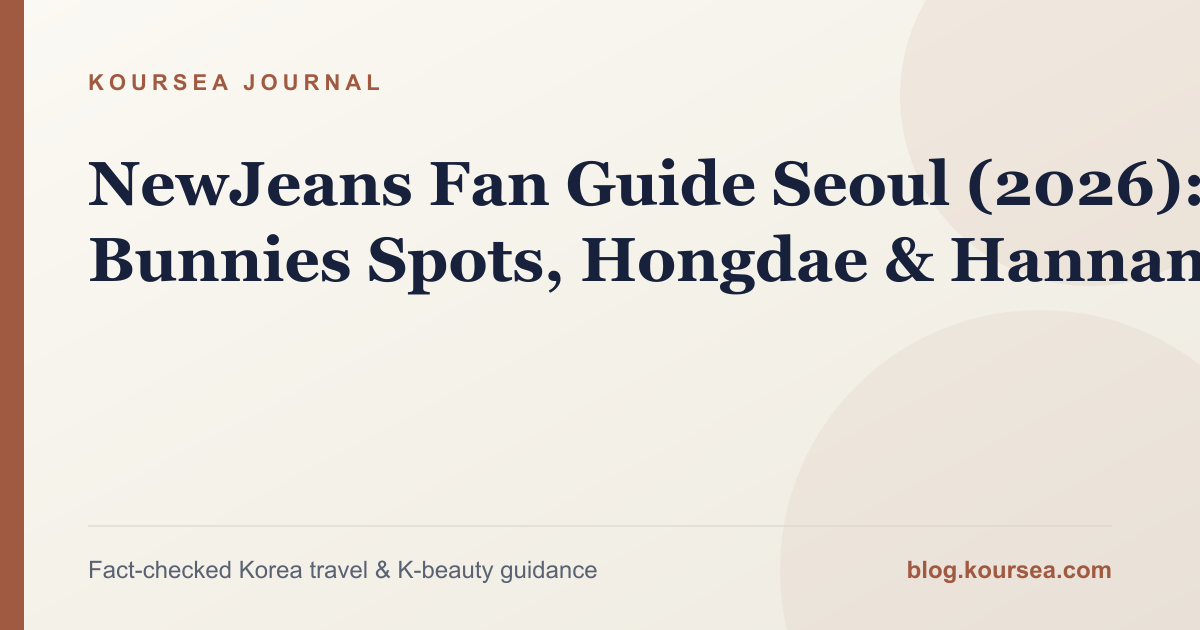
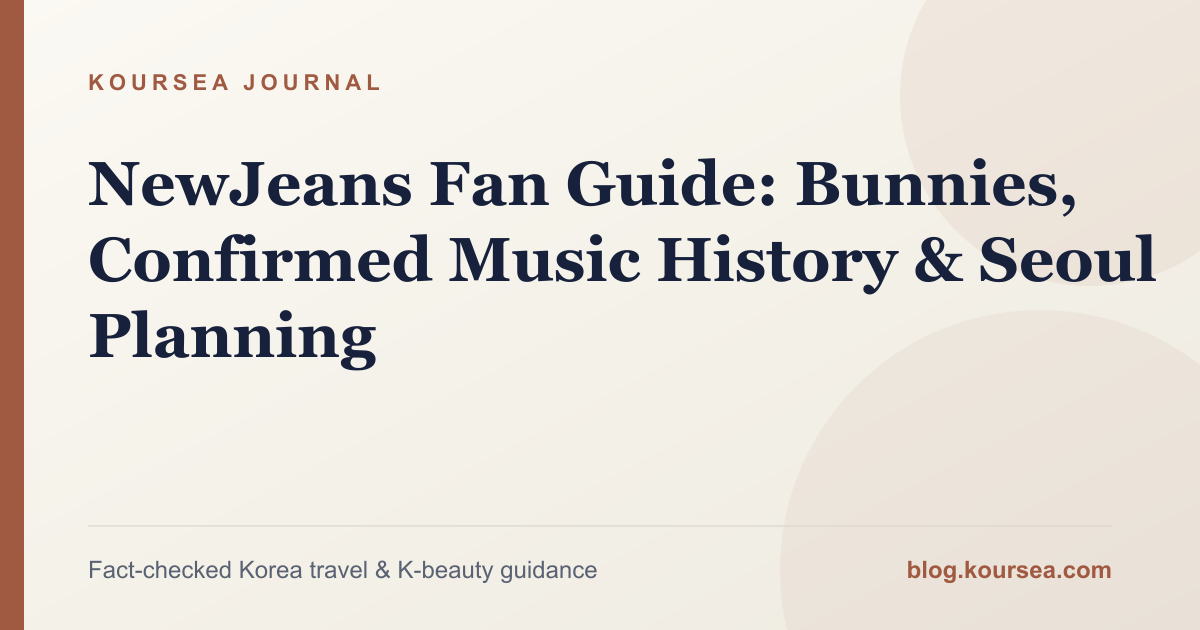
feat(kpop): publish artist profile batch five

Changed region(s): [[0.0617, 0.3619, 1.0, 0.4825], [0.6167, 0.2413, 1.0, 0.3317], [0.0617, 0.4825, 0.3083, 0.6032]]

diff --git a/src/content/posts/newjeans-fan-guide-seoul-spots.md b/src/content/posts/newjeans-fan-guide-seoul-spots.md
@@ -1,8 +1,9 @@
 ---
-title: "NewJeans Fan Guide Seoul (2026): Bunnies Spots, Hongdae & Hannam"
-description: "Planning a NewJeans-inspired Seoul trip? A 2026 guide to Bunnies fan culture, Hongdae/Hannam neighborhoods, and ticketing prep for foreign fans."
+title: "NewJeans Fan Guide: Bunnies, Confirmed Music History & Seoul Planning"
+description: "A carefully scoped NewJeans fan guide covering confirmed 2022–2024 releases, Bunnies, public Seoul planning and respectful fan travel."
 pubDate: 2026-09-02
 updatedDate: 2026-09-02
+category: "K-Pop & Concerts"
 tags:
   - newjeans
   - bunnies
@@ -17,17 +18,23 @@ canonicalUrl: "https://blog.koursea.com/posts/newjeans-fan-guide-seoul-spots/"
 author: "Koursea Editorial"
 ---
 
-> **A note before you plan around this guide:** NewJeans' agency and lineup situation has been genuinely unsettled in Korean reporting through 2025 and into 2026, with different outlets describing different stages of an ongoing contract dispute. Rather than guess at where things stand by the time you're reading this, this guide sticks to facts confirmed at debut and general Seoul geography associated with the group's fandom culture — verify current agency status and any tour/comeback news independently before finalizing travel plans around a specific event.
+> **최종 업데이트: 2026-09-02 기준. 최신 소속/멤버 현황은 별도로 확인이 필요합니다.**
+
+This guide deliberately covers confirmed activity from 2022 through 2024 only. It does not describe later agency, contract or member-status developments, and it does not present an unconfirmed future concert schedule.
 
 ## Profile & Key Takeaways
 
 - **Debut:** July 22, 2022
-- **Agency at debut:** ADOR, a HYBE-affiliated label; [HYBE Yongsan](https://www.koursea.com/place/hybe-headquarters-yongsan/) is a working-office exterior stop rather than an artist attraction
+- **Agency at debut:** ADOR, a HYBE-affiliated label
 - **Official fandom name:** Bunnies
 - **Group format:** Girl group, 5 members at debut
 - **Visitor footprint:** There's no dedicated public "NewJeans building" — ADOR is a small label without its own visitor-facing HQ, so this guide focuses on the Seoul neighborhoods most associated with the group's aesthetic and fan culture rather than a single pilgrimage address.
 
-NewJeans built their identity around a specific, very Seoul-coded aesthetic — Y2K fashion, low-key streetwear, film-photo visuals — and that shows up in where the fandom naturally gathers, even without an agency headquarters to visit. Here is how to plan around that honestly.
+## Confirmed 2022–2024 Activity
+
+NewJeans debuted in 2022 with an EP led by “Attention” and “Hype Boy”; both songs became defining early releases, and “Attention” earned the group its first music-show win. The following single album paired “Ditto” with “OMG”. In 2023, the *Get Up* EP reached No. 1 on the Billboard 200. Confirmed 2024 activity includes “How Sweet”, the Japanese debut single “Supernatural”, and the sold-out Bunnies Camp fan meeting at Tokyo Dome.
+
+Those releases are the boundary of this page's activity timeline. Travelers should not infer a current lineup, agency position or future tour from this historical summary.
 
 ## Neighborhoods, Not a Single Address
 
@@ -44,9 +51,9 @@ Individual MV filming locations and brand pop-up stores are time-limited and cha
 
 Avoid chasing unofficial "member sighting" locations or private residence tips — that's the kind of privacy-invasive content Koursea doesn't publish, and it's rarely accurate or current in practice. Stick to public retail, cafe, and street-culture spaces, and treat any specific "NewJeans filmed here" claim you find online with some skepticism unless it comes from an official source.
 
-## Tickets and Phone Verification — For Whenever Touring Resumes
+## General Ticketing Preparation
 
-Given the group's unsettled 2025–2026 status, we're not going to claim there's an active tour to book tickets for right now — check official channels for current news before assuming otherwise. But it's worth having the practical groundwork done regardless, since the same mechanics apply the moment any K-pop show goes on sale in Korea:
+This page does not claim that a NewJeans concert is scheduled. If an official future event is announced, start from the organizer's current notice rather than an old fan guide:
 
 - Our [Foreigner's Guide to K-Pop Concert Ticketing in Seoul (2026)](/posts/kpop-concert-ticketing-seoul-2026/) covers how NOL World, Melon Ticket, and Yes24 actually work, including the mandatory Korean-number verification step that catches most foreign fans off guard.
 - Solve that step ahead of time with our [Korean eSIM & SIM Card Setup Guide (2026)](/posts/guide-korea-esim-sim-card-setup-2026/) — it explains which eSIM plans can actually receive a Korean SMS code, since not every data-only plan supports that.
@@ -54,17 +61,17 @@ Given the group's unsettled 2025–2026 status, we're not going to claim there's
 ## Quick Answers
 
 - **Is there an official NewJeans or ADOR building to visit?** No confirmed public visitor site — ADOR doesn't operate the kind of visitor-facing destination associated with places such as [HYBE Yongsan](https://www.koursea.com/place/hybe-headquarters-yongsan/) or [SM Entertainment and KWANGYA@SEOUL](https://www.koursea.com/place/sm-kwangya-seoul-forest/).
-- **What's NewJeans' current agency status?** This has been genuinely disputed in Korean reporting through 2025–2026 — verify current status through official channels rather than relying on any single article, including this one.
+- **Does this guide confirm the group's current agency or member status?** No. It is limited to confirmed 2022–2024 activity and the debut-era agency description.
 
 ---
 
 ## Social & Community Distribution Snippets
 
 ### Threads & X (Twitter) Hook
-No, there's no "NewJeans building" to visit in Seoul — ADOR doesn't run a public HQ. What Bunnies actually build a trip around is Hongdae + Hannam's fashion/street-culture scene. Honest 2026 guide (agency status included) here:
+No, there is no public “NewJeans building” to visit in Seoul. This carefully scoped guide covers confirmed 2022–2024 releases, Bunnies culture, and public neighborhood planning:
 https://blog.koursea.com/posts/newjeans-fan-guide-seoul-spots/
 
 ### Reddit Community Reply Template
-Being upfront: NewJeans' agency/lineup situation has been genuinely unsettled in Korean reporting, so I'm not going to claim a specific current status here — check official channels for the latest before planning around it. What I can say confidently: there's no separate NewJeans/ADOR building open to visitors, so the more useful Seoul trip is centered on Hongdae and Hannam-dong, the neighborhoods most associated with the group's style and fandom culture, rather than one fixed address. If touring resumes, Korean ticketing platforms all require a one-time Korean phone verification — worth sorting a Korean-capable eSIM ahead of time regardless. Full guide here: https://blog.koursea.com/posts/newjeans-fan-guide-seoul-spots/
+This guide intentionally stops at confirmed 2022–2024 activity and does not speculate about later agency, member or concert developments. There is no separate public visitor building, so its practical Seoul section focuses on public neighborhoods rather than private workplaces. Full guide: https://blog.koursea.com/posts/newjeans-fan-guide-seoul-spots/
 
 ---

diff --git a/src/content/posts/boynextdoor-fan-guide.md b/src/content/posts/boynextdoor-fan-guide.md
@@ -1,0 +1,47 @@
+---
+title: "BOYNEXTDOOR Fan Guide: ONEDOOR Activity & Seoul Concert Prep"
+description: "A practical BOYNEXTDOOR guide for ONEDOOR covering confirmed activity, the absence of a public KOZ visitor facility, official merchandise checks and Seoul ticketing prep."
+pubDate: 2026-09-08
+updatedDate: 2026-09-08
+category: "K-Pop & Concerts"
+tags: ["boynextdoor", "onedoor", "koz entertainment", "19.99", "kpop concert tickets"]
+canonicalUrl: "https://blog.koursea.com/posts/boynextdoor-fan-guide/"
+author: "Koursea Editorial"
+---
+
+# BOYNEXTDOOR Fan Guide: ONEDOOR Activity & Seoul Concert Prep
+
+BOYNEXTDOOR is managed by KOZ Entertainment, a HYBE-affiliated label, and the official fandom name is **ONEDOOR**. The most important travel fact is also the simplest: there is no verified public KOZ headquarters shop or dedicated BOYNEXTDOOR visitor facility in Seoul.
+
+## Key Takeaways
+
+- Do not build an itinerary around entering KOZ offices or HYBE headquarters.
+- HYBE's Yongsan building is a workplace with no general fan access.
+- The mini album *19.99* and the *ONEDOORful Day* fan-meeting name are useful confirmed activity references, not current event listings.
+- Buy through official online channels or a clearly announced temporary retailer event.
+- Use the [Foreigner's Guide to K-Pop Concert Ticketing in Seoul](/posts/kpop-concert-ticketing-seoul-2026/) for future official shows.
+
+## Why This Guide Has No Headquarters Route
+
+An agency relationship does not turn an office into a tourism venue. KOZ does not operate a separately verified public shop or exhibition for walk-in visitors, and HYBE headquarters does not provide general interior access. Koursea therefore does not invent a place card or direct ONEDOOR to private entrances.
+
+If you want a fan-focused stop, wait for a dated official pop-up, album benefit, fan meeting or concert announcement. Confirm its venue and operating period through KOZ, BOYNEXTDOOR, Weverse, the venue or the named ticket seller. Old event pages often remain searchable after closing.
+
+## Confirmed Activity Context
+
+The *19.99* mini album and *ONEDOORful Day* fan meeting are established parts of BOYNEXTDOOR's activity history. They can help travelers understand merchandise names and older fan content, but they should not be presented as a current Seoul schedule without a new official notice.
+
+For merchandise, compare the product title, edition, official seller and benefit period. Temporary lucky draws and preorder gifts are tied to particular retailers and dates; a photo of an old benefit is not evidence that it remains available.
+
+## Ticketing Preparation for ONEDOOR
+
+When a future Seoul event is officially announced, begin with the organizer's notice and follow its exact seller link. Check whether membership presale needs a separate application, whether names must match a passport, and whether the platform accepts your card. Complete every account step before sale time.
+
+Our [K-Pop concert ticketing guide](/posts/kpop-concert-ticketing-seoul-2026/) covers NOL Ticket, Melon Ticket, Korean phone verification, foreign-card failures and pickup rules. Save the final venue notice and transport plan offline for concert day.
+
+## Quick Answers
+
+- **Can fans enter KOZ Entertainment?** No public visitor facility is verified, so do not plan on office access.
+- **Is HYBE headquarters a BOYNEXTDOOR attraction?** No. It is a working office.
+- **Where should ONEDOOR check events?** Use current KOZ, BOYNEXTDOOR, Weverse, venue and official ticket-seller notices.
+

diff --git a/src/content/posts/nct127-fan-guide-sm-seongsu.md b/src/content/posts/nct127-fan-guide-sm-seongsu.md
@@ -1,0 +1,47 @@
+---
+title: "NCT 127 Fan Guide to Seoul: NCTzen Stops & KWANGYA@SEOUL"
+description: "Plan an NCT 127 fan visit to Seoul with the current KWANGYA@SEOUL location, closed SMTOWN Coex warning, official merchandise checks and concert ticketing prep."
+pubDate: 2026-09-08
+updatedDate: 2026-09-08
+category: "K-Pop & Concerts"
+tags: ["nct 127", "nctzen", "kwangya seoul", "sm entertainment", "kpop concert tickets"]
+canonicalUrl: "https://blog.koursea.com/posts/nct127-fan-guide-sm-seongsu/"
+author: "Koursea Editorial"
+---
+
+# NCT 127 Fan Guide to Seoul: NCTzen Stops & KWANGYA@SEOUL
+
+NCT 127 is an SM Entertainment group whose official fandom name is **NCTzen**. For a fan visiting Seoul, the useful official public stop is [KWANGYA@SEOUL](https://www.koursea.com/place/sm-kwangya-seoul-forest/) in Seongsu—not an old Coex itinerary and not a private office entrance.
+
+## Key Takeaways
+
+- KWANGYA@SEOUL is at **B1, D Tower, Acro Seoul Forest, 83-21 Wangsimni-ro, Seongdong-gu**.
+- SMTOWN Coex Artium closed completely in May–June 2020 and is no longer an SM visitor destination.
+- Treat SM offices as workplaces and use only the public retail space announced for visitors.
+- NCT 127's sixth full album *WALK* belongs to the group's established activity history; check current SM notices for any new event.
+- Use the [Foreigner's Guide to K-Pop Concert Ticketing in Seoul](/posts/kpop-concert-ticketing-seoul-2026/) before a ticket sale.
+
+## Visit KWANGYA@SEOUL in Seongsu
+
+Enter Acro Seoul Forest's D Tower and follow the building's current signs to basement level 1. Store hours, purchase benefits, stock and event entry rules can change, so check the latest KWANGYA or SM notice on the day you travel. If a release benefit matters to you, confirm the branch, eligible album version and event period before paying.
+
+Do not use old posts directing NCTzen to SMTOWN Coex Artium. That venue closed in 2020 and the former space is not a current SM attraction. A page, map pin or video that still calls it an operating SMTOWN venue is stale.
+
+## Build a Practical Seongsu Fan Day
+
+Keep the official stop as one part of a public Seongsu itinerary. Seoul Forest offers space to rest, and the surrounding district has cafés, shops and pop-ups. Temporary artist events require their own official notice; their dates should never be inferred from an old social post.
+
+Avoid waiting near private office access points or following vehicles. Public retail and announced events are the appropriate fan-travel route.
+
+## Concert Preparation
+
+Start with the performance organizer's notice. Confirm the seller, NCTzen membership presale steps, account-name format, passport matching, pickup policy and accepted payment methods. Finish account verification before the queue opens and save the venue address and final train route offline.
+
+Our [K-Pop concert ticketing guide](/posts/kpop-concert-ticketing-seoul-2026/) explains NOL Ticket, Melon Ticket, foreign-card failures and identity checks without promising that one platform's old rules apply to every show.
+
+## Quick Answers
+
+- **Can I still visit SMTOWN Coex Artium?** No. It closed in 2020 and should not be used as an NCT 127 destination.
+- **Where is the current official public stop?** KWANGYA@SEOUL at Acro Seoul Forest D Tower B1.
+- **Can I enter SM's offices?** Do not assume office access. Use the designated public store and announced event spaces only.
+

diff --git a/src/content/posts/riize-fan-guide-sm-seongsu.md b/src/content/posts/riize-fan-guide-sm-seongsu.md
@@ -1,0 +1,47 @@
+---
+title: "RIIZE Fan Guide to Seoul: BRIIZE Stops & KWANGYA@SEOUL"
+description: "A practical RIIZE fan guide to KWANGYA@SEOUL in Seongsu, official merchandise checks, public fan etiquette and foreigner concert ticket preparation."
+pubDate: 2026-09-08
+updatedDate: 2026-09-08
+category: "K-Pop & Concerts"
+tags: ["riize", "briize", "kwangya seoul", "sm entertainment", "kpop concert tickets"]
+canonicalUrl: "https://blog.koursea.com/posts/riize-fan-guide-sm-seongsu/"
+author: "Koursea Editorial"
+---
+
+# RIIZE Fan Guide to Seoul: BRIIZE Stops & KWANGYA@SEOUL
+
+RIIZE is an SM Entertainment group, and its official fandom name is **BRIIZE**. The group does not need a duplicate place listing: its practical official Seoul stop is the same [KWANGYA@SEOUL](https://www.koursea.com/place/sm-kwangya-seoul-forest/) used by other SM artists.
+
+## Key Takeaways
+
+- Visit KWANGYA@SEOUL at **Acro Seoul Forest D Tower B1, 83-21 Wangsimni-ro, Seongdong-gu**.
+- Do not travel to the former SMTOWN Coex Artium; it closed in 2020.
+- *RIIZING*, the fan-con tour era and the KSPO DOME finale are useful established milestones, not proof of a current event.
+- Confirm pop-ups and purchase benefits through the newest official notice.
+- Prepare with the [Foreigner's Guide to K-Pop Concert Ticketing in Seoul](/posts/kpop-concert-ticketing-seoul-2026/).
+
+## The Official Seongsu Stop
+
+KWANGYA@SEOUL is a public retail destination inside Acro Seoul Forest, while SM work areas are not fan attractions. Follow the mall's current signs to D Tower basement level 1. Inventory and event rules change quickly, so verify opening hours, eligible products and reservation requirements before making a special trip.
+
+RIIZE and NCT 127 share this location because it is an SM retail hub. Creating a second map entity would imply two different venues and make directions less reliable, so Koursea links both guides to one verified place page.
+
+## RIIZE Activity Context
+
+The *RIIZING* mini-album era, fan-con tour and KSPO DOME finale help explain why BRIIZE may encounter older event guides and merchandise posts. Treat those as historical context. A past event page does not confirm that a benefit, exhibition or concert is operating now.
+
+For a current visit, use only a dated SM, RIIZE, venue or ticket-seller announcement. Check whether entry is walk-in, reserved or lottery-based and whether identification must match the booking account.
+
+## Concert-Day Preparation
+
+Before a future official event, confirm the exact seller and presale process. Keep membership and ticket-account names consistent with your passport when the notice requires identity verification. Test your payment method, save a backup card, and screenshot the venue notice and return route.
+
+Read our [K-Pop concert ticketing guide](/posts/kpop-concert-ticketing-seoul-2026/) for the foreigner-facing details most likely to cause trouble: account verification, waiting rooms, payment declines and ticket pickup.
+
+## Quick Answers
+
+- **Is there a separate RIIZE shop in Seoul?** This guide uses the shared official KWANGYA@SEOUL location; it does not create a duplicate venue.
+- **Is SMTOWN Coex Artium still open?** No. Do not use it as a current destination.
+- **Are old RIIZING event benefits still available?** Never assume so; confirm the newest dated notice.
+

diff --git a/src/content/posts/enhypen-fan-guide-seoul-spots.md b/src/content/posts/enhypen-fan-guide-seoul-spots.md
@@ -3,6 +3,7 @@ title: "ENHYPEN Fan Guide to Seoul: ENGENE Spots, HYBE Yongsan & Pop-Up Tips"
 description: "Plan an ENHYPEN fan trip with respectful HYBE photo stops, official Seoul pop-up checks, merch shopping, ticketing, and transit advice."
 pubDate: 2026-09-03
 updatedDate: 2026-09-03
+category: "K-Pop & Concerts"
 tags: ["K-Pop", "ENHYPEN", "ENGENE", "Seoul", "Concert Tickets"]
 canonicalUrl: "https://blog.koursea.com/posts/enhypen-fan-guide-seoul-spots/"
 author: "Koursea Team"
@@ -10,11 +11,12 @@ author: "Koursea Team"
 
 # ENHYPEN Fan Guide to Seoul: ENGENE Spots, HYBE Yongsan & Pop-Up Tips
 
-ENHYPEN debuted on November 30, 2020, under BELIFT LAB, and the official fandom name is ENGENE. The strongest Seoul itinerary is flexible: combine a brief public photo stop with verified pop-ups, authorized retailers, and solid concert preparation.
+ENHYPEN debuted on November 30, 2020, under BELIFT LAB, a HYBE-affiliated label, and the official fandom name is ENGENE. The strongest Seoul itinerary is flexible: combine a brief public photo stop with verified pop-ups, authorized retailers, and solid concert preparation.
 
 ## Key takeaways
 
 - [HYBE Yongsan](https://www.koursea.com/place/hybe-headquarters-yongsan/) is a private workplace with no guaranteed public interior access.
+- HYBE INSIGHT ended permanent operations on January 15, 2023. There is no permanent ENHYPEN exhibition venue to visit inside the headquarters.
 - Check official ENHYPEN or BELIFT notices for event dates, reservations, identification, and final entry.
 - Prepare ticket identity details, payment backups, and mobile verification before sales open.
 - Download the last-train route and keep your hotel address in Korean.
@@ -23,7 +25,9 @@ ENHYPEN debuted on November 30, 2020, under BELIFT LAB, and the official fandom 
 
 ### Yongsan exterior and transport hub
 
-Reach the HYBE exterior from Sinyongsan or Yongsan Station. Stay on public pavement, do not wait near doors or vehicles, and leave if security requests it. The practical benefit is the district's transport: food, restrooms, lockers, and onward connections are close together.
+Reach the HYBE exterior from Sinyongsan or Yongsan Station. Stay on public pavement, do not wait near doors or vehicles, and leave if security requests it. The building is an office, not a visitor facility. HYBE INSIGHT ended its permanent operation on January 15, 2023, so older itineraries describing an exhibition inside the headquarters are outdated. There is no permanent ENHYPEN exhibition venue open there.
+
+ENHYPEN's *WALK THE LINE* world-tour era is useful context for current fan interest, but every performance date, presale condition and venue rule must be checked in the newest BELIFT LAB, Weverse and organizer notice.
 
 ### Temporary pop-ups and album events
 
